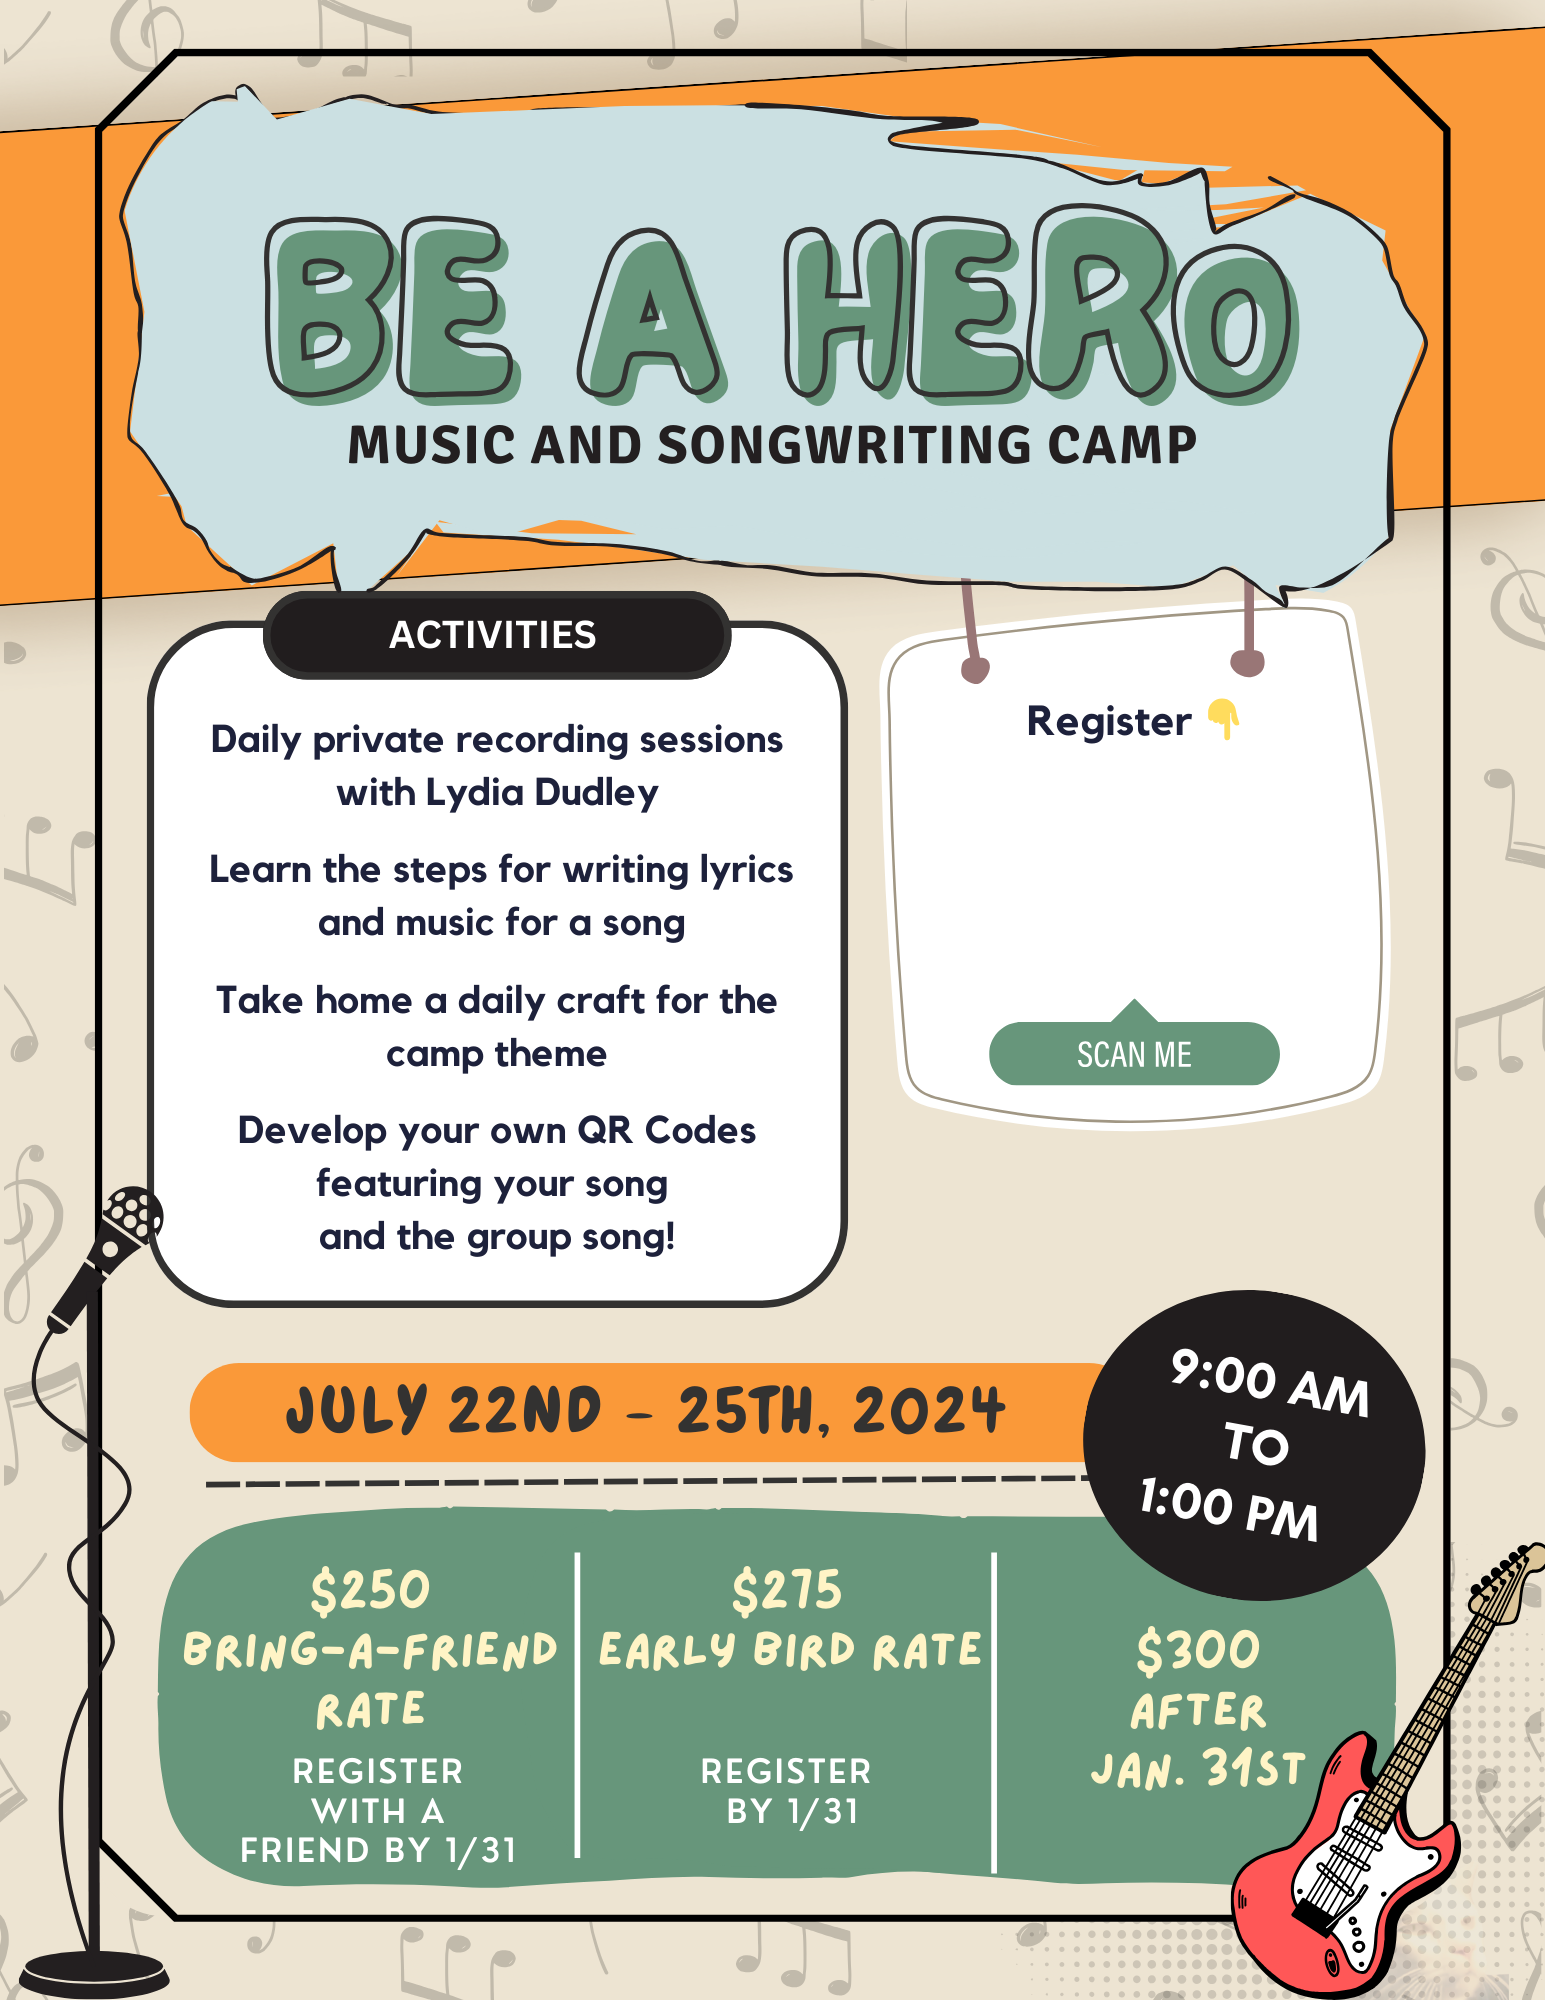
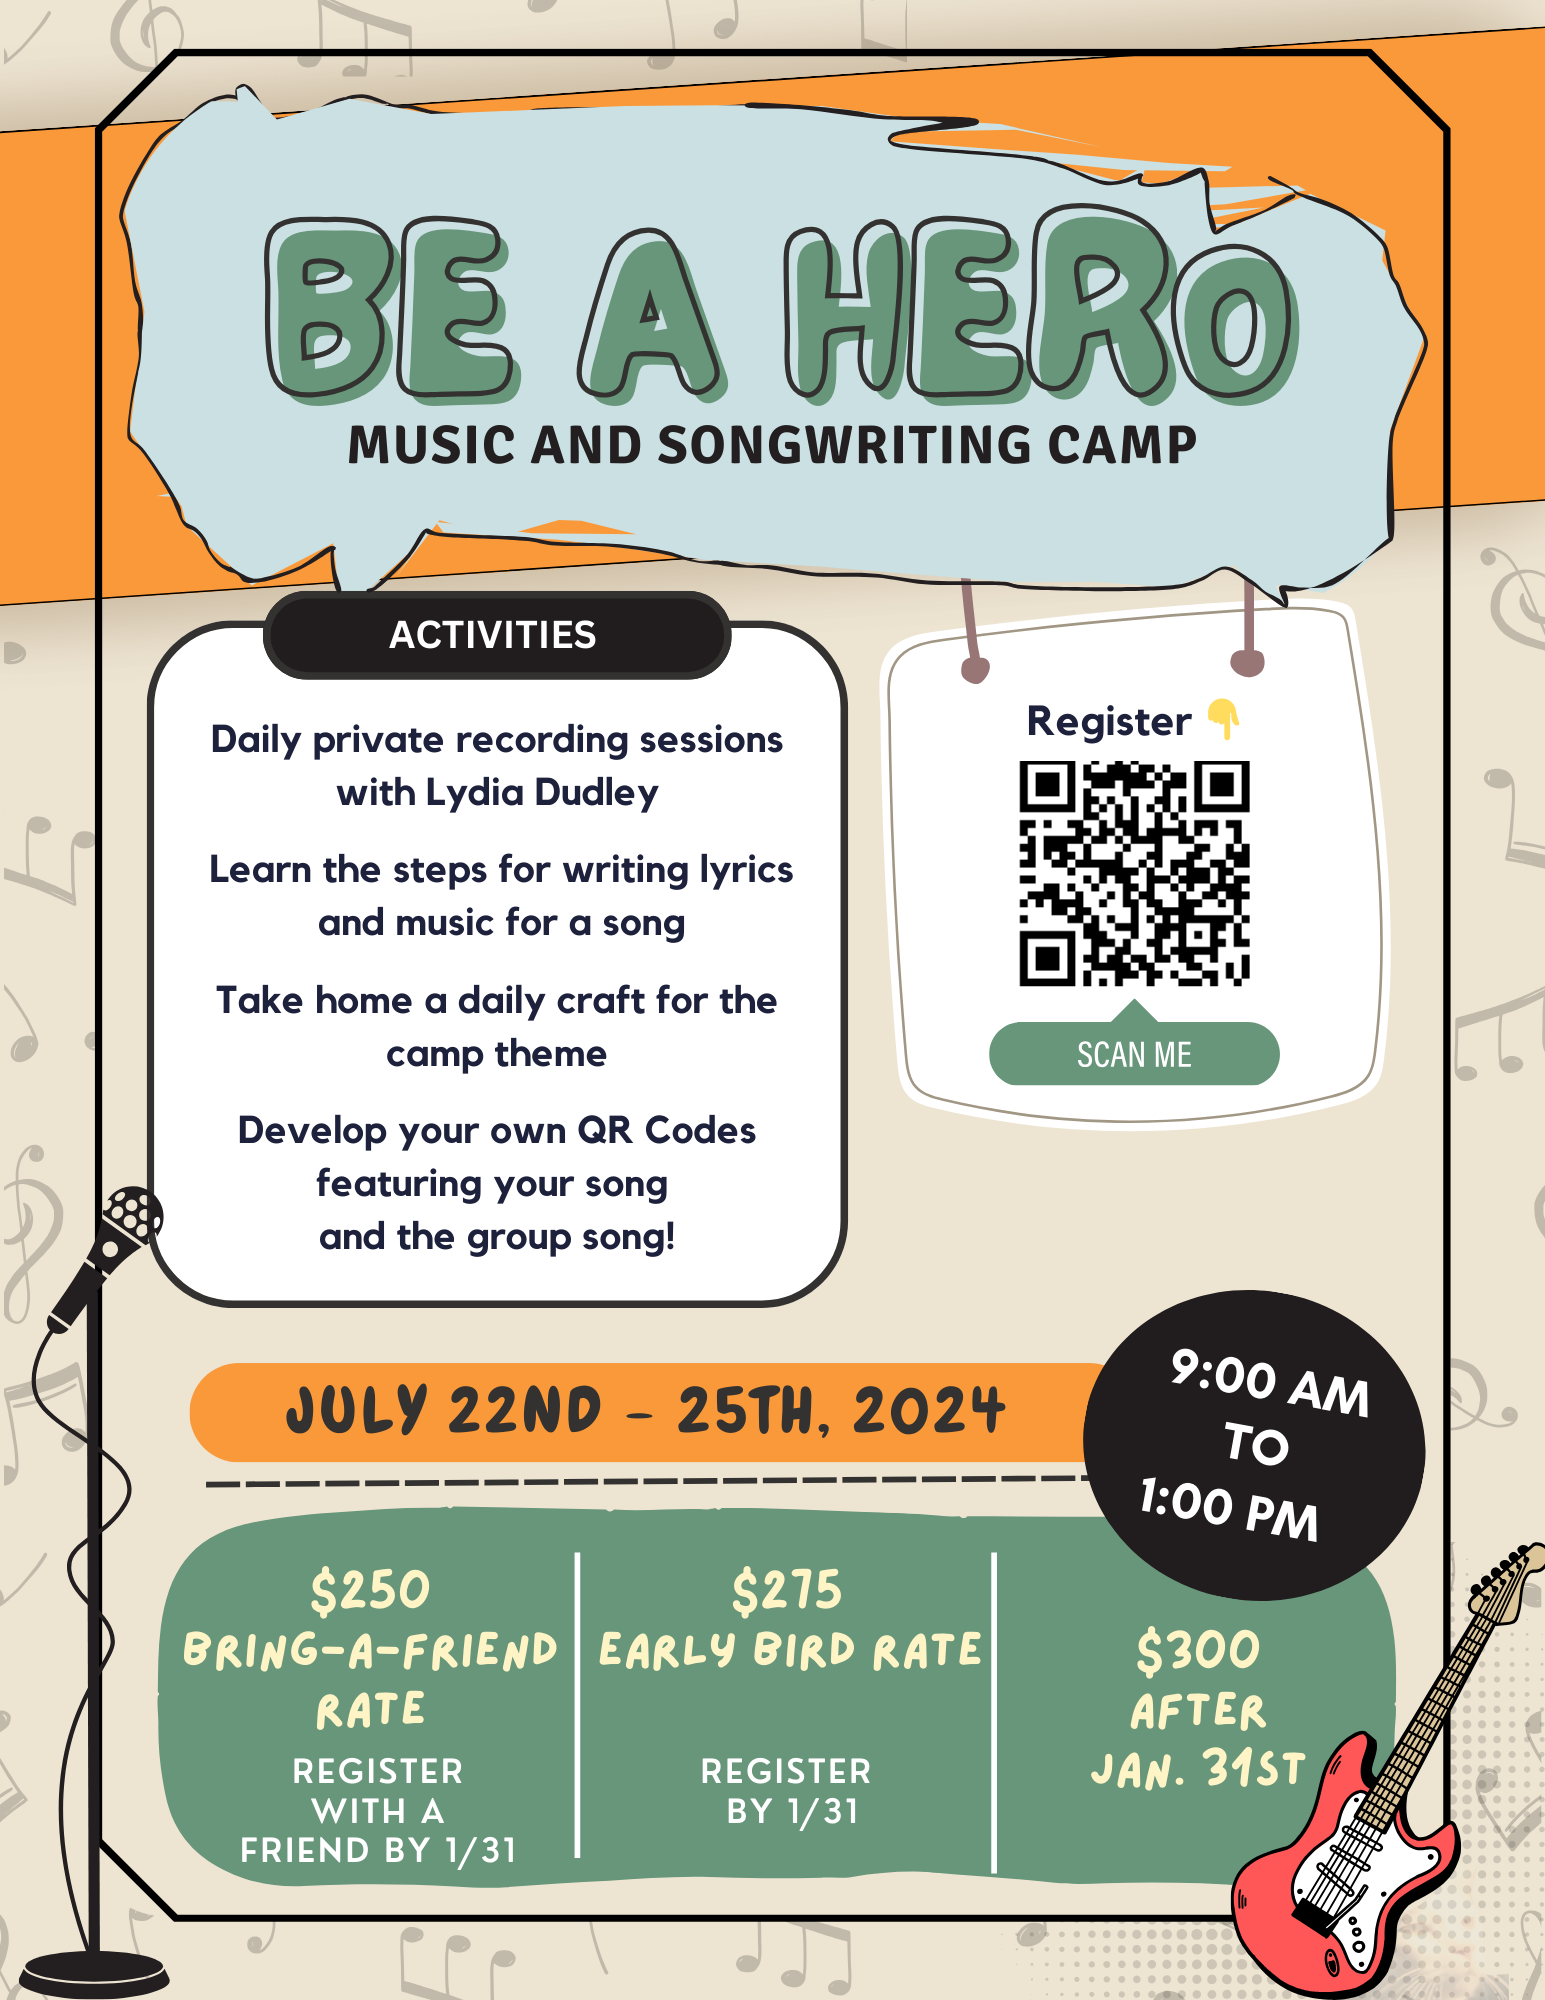
fixed qr code sizing issue

Changed region(s): [[0.6524, 0.372, 0.8078, 0.496]]

diff --git a/index.html b/index.html
@@ -45,19 +45,15 @@
             <div class="container my-5"></div>
             <div class="justify-content-center align-items-center" id="camps_container" style="padding: 0; margin: 0; width: 100%; position: relative;">
                 <img src="./static/images/be-a-hero.png" style="margin: 0; padding: 0; object-fit: cover; width: 100%;"></img>
-                <a href="https://l.oveit.com/events/embed?id=74a576d73d">
-                    <img src="./static/images/camps-qr-code.png" id="camps-qr-1"></img>
-                </a>
+                <a href="https://l.oveit.com/events/embed?id=74a576d73d" id="camps-link-1"></a>
             </div> 
             <div class="justify-content-center align-items-center" id="camps_container" style="padding: 0; margin: 0; width: 100%;">
                 <div class="container py-4"></div>
             </div> 
             <div class="justify-content-center align-items-center" id="camps_container" style="padding: 0; margin: 0; width: 100%; position: relative;">
                 <img src="./static/images/music-production.png" style="margin: 0; padding: 0; object-fit: cover; width: 100%;"></img>
-                <a href="https://l.oveit.com/events/embed?id=74a576d73d">
-                    <img src="./static/images/camps-qr-code.png" id="camps-qr-2"></img>
-                </a>
-                <a href="https://l.oveit.com/events/embed?id=74a576d73d" id="camps-link"></a>
+                <a href="https://l.oveit.com/events/embed?id=74a576d73d" id="camps-link-2"></a>
+                <a href="https://l.oveit.com/events/embed?id=74a576d73d" id="camps-link-3"></a>
             </div> 
         </section>
 

diff --git a/static/css/styles.css b/static/css/styles.css
@@ -30,24 +30,21 @@
 
 }
 
-#camps-qr-1 {
+#camps-link-1 {
   position: absolute;
   top: 38%;
-  left: 66%;
-  min-width: 15%;
+  left: 65%;
+  width: 17%;
+  height: 12%;
 }
-
-#camps-qr-2 {
+#camps-link-2 {
   position: absolute;
-  top: 86.9%;
-  left: 7.4%;
-  min-width: 15%;
-  border-width: 0.3rem;
-  border-color: #B268C3;
-  border-style: solid;
+  top: 87%;
+  left: 7%;
+  width: 16%;
+  height: 12%;
 }
-
-#camps-link {
+#camps-link-3 {
   position: absolute;
   top: 90%;
   left: 24%;
